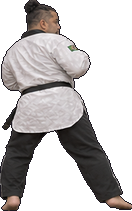
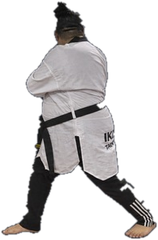
PIIKEDA: F e ←+D usam só a sequência 21-22-23, sem movimento de giro
Claude-Session: https://claude.ai/code/session_01HXNLdPa6jqkq51q5LfzTTd

diff --git a/index.html b/index.html
@@ -157,7 +157,7 @@ const ROSTER=[
  {nome:'CAÇADOR',tam:0.82,real:true,hit:{soco:{x:5,y:-51,w:22,h:16},direto:{x:5,y:-50,w:22,h:16},chute:{x:15,y:-52,w:22,h:16},giro:{x:15,y:-52,w:22,h:16},passo:{x:15,y:-52,w:22,h:16},lateral:{x:15,y:-52,w:22,h:16},aereo:{x:15,y:-36,w:26,h:28}},spr:{idle:['cacador-idle.webp',74.0,1.0],a0:['cacador-idle.webp',74.0,1.0],a1:['cacador-idle2.webp',75.8,1.029],a2:['cacador-andar.webp',72.2,1.008],a3:['cacador-idle2.webp',75.8,1.029],junta:['cacador-junta.webp',41.0,1.021],soco:['cacador-soco.webp',68.8,1.017],direto:['cacador-direto.webp',79.2,1.017],chute:['cacador-chute.webp',41.5,1.017],alto:['cacador-chute.webp',41.5,1.017],passo:['cacador-chute.webp',41.5,1.017],guarda:['cacador-guarda.webp',83.8,1.012]},faixa:'#f2c230',pele:'#e0b48e',cabelo:'#2a1810',estilo:'cacheado'},
  {nome:'GUITAR-MAN',real:true,hit:{soco:{x:11,y:-50,w:22,h:13},direto:{x:11,y:-50,w:22,h:13},chute:{x:14,y:-46,w:22,h:13},lateral:{x:20,y:-47,w:22,h:13},giro:{x:14,y:-59,w:22,h:13},passo:{x:14,y:-46,w:22,h:13},aereo:{x:8,y:-36,w:26,h:28}},spr:{idle:['guitar-idle.webp',69.8,1.0],anda:['guitar-anda.webp',79.2,0.971],anda2:['guitar-idle2.webp',77.2,0.992],soco:['guitar-soco.webp',97.8,0.979],guarda:['guitar-guarda.webp',78.5,0.988],chute:['guitar-chute.webp',45.5,0.988],meio:['guitar-meio.webp',58.5,0.988],alto:['guitar-alto.webp',70.5,1.004]},faixa:'#d8d020',pele:'#e0b48e',cabelo:'#1a120d',estilo:'coque'},
  {nome:'GUILHERMINO',tam:0.85,real:true,hit:{soco:{x:10,y:-51,w:22,h:13},direto:{x:10,y:-50,w:22,h:13},chute:{x:12,y:-49,w:22,h:13},lateral:{x:17,y:-46,w:22,h:13},giro:{x:9,y:-58,w:22,h:13},passo:{x:12,y:-49,w:22,h:13},aereo:{x:8,y:-36,w:26,h:28}},spr:{idle:['guilhermino-idle.webp',72.2,1.0],anda:['guilhermino-anda.webp',82.8,0.958],anda2:['guilhermino-pe.webp',60.8,0.967],soco:['guilhermino-soco.webp',75.8,0.988],direto:['guilhermino-direto.webp',78.0,0.975],junta:['guilhermino-junta.webp',41.0,0.971],chute:['guilhermino-chute.webp',61.5,0.979],meio:['guilhermino-meio.webp',56.0,0.958],alto:['guilhermino-alto.webp',82.0,0.958],guarda:['guilhermino-guarda.webp',79.5,0.988],leva:['guilhermino-leva.webp',85.0,0.863],ar:['guilhermino-ar.webp',55.8,0.825]},faixa:'#f4f4f4',pele:'#d9a77e',cabelo:'#1a120d',estilo:'curto'},
- {nome:'PIIKEDA',real:true,fwdKick:true,hit:{soco:{x:4,y:-50,w:22,h:13},direto:{x:10,y:-50,w:22,h:13},chute:{x:18,y:-47,w:22,h:13},lateral:{x:16,y:-45,w:22,h:13},giro:{x:12,y:-41,w:22,h:13},passo:{x:16,y:-44,w:22,h:13},aereo:{x:8,y:-36,w:26,h:28}},spr:{idle:['piikeda-idle.webp',64.5,1.0],anda:['piikeda-anda.webp',58.8,1.008],anda2:['piikeda-anda2.webp',81.5,0.996],soco:['piikeda-soco.webp',71.0,0.971],direto:['piikeda-direto.webp',68.8,0.992],guarda:['piikeda-guarda.webp',59.5,0.933],junta:['piikeda-junta.webp',33.0,0.938],chute:['piikeda-chute.webp',41.5,0.938],vira:['piikeda-vira.webp',62.0,0.879],costas:['piikeda-costas.webp',13.0,0.808],alto:['piikeda-alto.webp',48.5,0.754],meio:['piikeda-meio.webp',53.5,0.954],passo:['piikeda-passo.webp',50.0,0.863]},faixa:'#151515',gola:true,pele:'#c98d63',cabelo:'#141010',estilo:'coque'},
+ {nome:'PIIKEDA',real:true,semGiro:true,fwdKick:true,hit:{soco:{x:4,y:-50,w:22,h:13},direto:{x:10,y:-50,w:22,h:13},chute:{x:18,y:-47,w:22,h:13},lateral:{x:16,y:-45,w:22,h:13},giro:{x:17,y:-47,w:22,h:13},passo:{x:17,y:-47,w:22,h:13},aereo:{x:8,y:-36,w:26,h:28}},spr:{idle:['piikeda-idle.webp',64.5,1.0],anda:['piikeda-anda.webp',58.8,1.008],anda2:['piikeda-anda2.webp',81.5,0.996],soco:['piikeda-soco.webp',71.0,0.971],direto:['piikeda-direto.webp',68.8,0.992],guarda:['piikeda-guarda.webp',59.5,0.933],junta:['piikeda-junta.webp',33.0,0.938],chute:['piikeda-chute.webp',41.5,0.938],vira:['piikeda-vira.webp',75.5,0.97],costas:['piikeda-costas.webp',75.0,0.97],alto:['piikeda-alto.webp',107.0,0.927],meio:['piikeda-meio.webp',53.5,0.954],passo:['piikeda-alto.webp',107.0,0.927]},faixa:'#151515',gola:true,pele:'#c98d63',cabelo:'#141010',estilo:'coque'},
 ];
 const LEG=6;
 const CAMX=48,AL=CAMX+14,AR=CAMX+288-14;   // arena = uma tela (cenário fixo)
@@ -464,7 +464,7 @@ function imgPose(f,o,air,c){
   else if(f.move==='giroD'){if(ph===0){const u=f.t/m.startup;fr=u<0.5&&has('vira')?'vira':has('costas')?'costas':'idle';dy=-Math.sin(Math.PI*u)*2;}else if(ph===1||rec<7)fr='chute';}
   else if(f.move==='lateralA'){if(ph===0)fr=has('joelho')?'joelho':'idle';else if(ph===1||rec<7)fr=has('lado')?'lado':'chute';}
   else if(f.move==='lateral'){const u=f.t/m.startup;if(ph===0){fr=has('junta')?'junta':has('a2')?'a2':'idle';dy=-Math.sin(Math.PI*Math.min(1,u))*2;}else if(ph===1||rec<7){fr=has('meio')?'meio':has('lado')?'lado':has('chute')?'chute':'idle';if(!has('chute')){rot=-0.28;dx=5;}}}
-  else if(f.move==='passo'){const u=f.t/m.startup,g=has('junta')?'junta':has('a2')?'a2':'idle';if(ph===0&&has('prep')){fr='prep';dy=-Math.sin(Math.PI*u)*3;}else if(ph===0&&has('costas')){fr=g;dy=-Math.sin(Math.PI*u)*3;if(u<0.5)sx=Math.max(0.1,Math.cos(Math.PI*u));else{fr='costas';sx=Math.max(0.1,-Math.cos(Math.PI*u));}}else if(ph===0){fr=g;}else if(ph===1||rec<7){fr=has('passo')?'passo':'chute';const k=f.t-m.startup;if(k<4&&(has('costas')||has('prep'))){sx=0.35+0.65*k/4;rot=-0.25*(1-k/4);}}}
+  else if(f.move==='passo'){const u=f.t/m.startup,g=has('junta')?'junta':has('a2')?'a2':'idle';if(ph===0&&has('prep')){fr='prep';dy=-Math.sin(Math.PI*u)*3;}else if(ph===0&&has('costas')&&c.semGiro){fr=u<0.5&&has('vira')?'vira':'costas';}else if(ph===0&&has('costas')){fr=g;dy=-Math.sin(Math.PI*u)*3;if(u<0.5)sx=Math.max(0.1,Math.cos(Math.PI*u));else{fr='costas';sx=Math.max(0.1,-Math.cos(Math.PI*u));}}else if(ph===0){fr=g;}else if(ph===1||rec<7){fr=has('passo')?'passo':'chute';const k=f.t-m.startup;if(k<4&&(has('costas')||has('prep'))&&!c.semGiro){sx=0.35+0.65*k/4;rot=-0.25*(1-k/4);}}}
   else if(f.move==='salto'){const u=f.t/m.startup;if(ph===0){fr=u<0.35?(has('ini')?'ini':'chute'):'pulo';dy=u<0.35?0:-Math.sin(Math.PI*Math.min(1,(u-0.35)/0.65+0.3))*12;}else if(ph===1){fr='gancho';dy=-6*(1-(f.t-m.startup)/m.active);}else fr=rec<12?'pouso':'idle';}
   else if(f.move==='giro'){if(ph===0&&has('prep')){fr='prep';dy=-Math.sin(Math.PI*f.t/m.startup)*3;}else if(ph===0&&has('costas')){const u=f.t/m.startup;fr=u<0.5&&has('vira')?'vira':'costas';}else if(ph===0){fr=has('junta')?'junta':'idle';}else if((ph===1||rec<8)&&has('alto')){fr='alto';dx=2;}else if(ph===1||rec<8){if(has('chute')){fr='chute';rot=-0.18;dx=3;}else{rot=-0.38;dx=7;sx=1.06;}}}
   else if(has('voa')){fr=ph?'voa':(has('junta')?'junta':'idle');}
